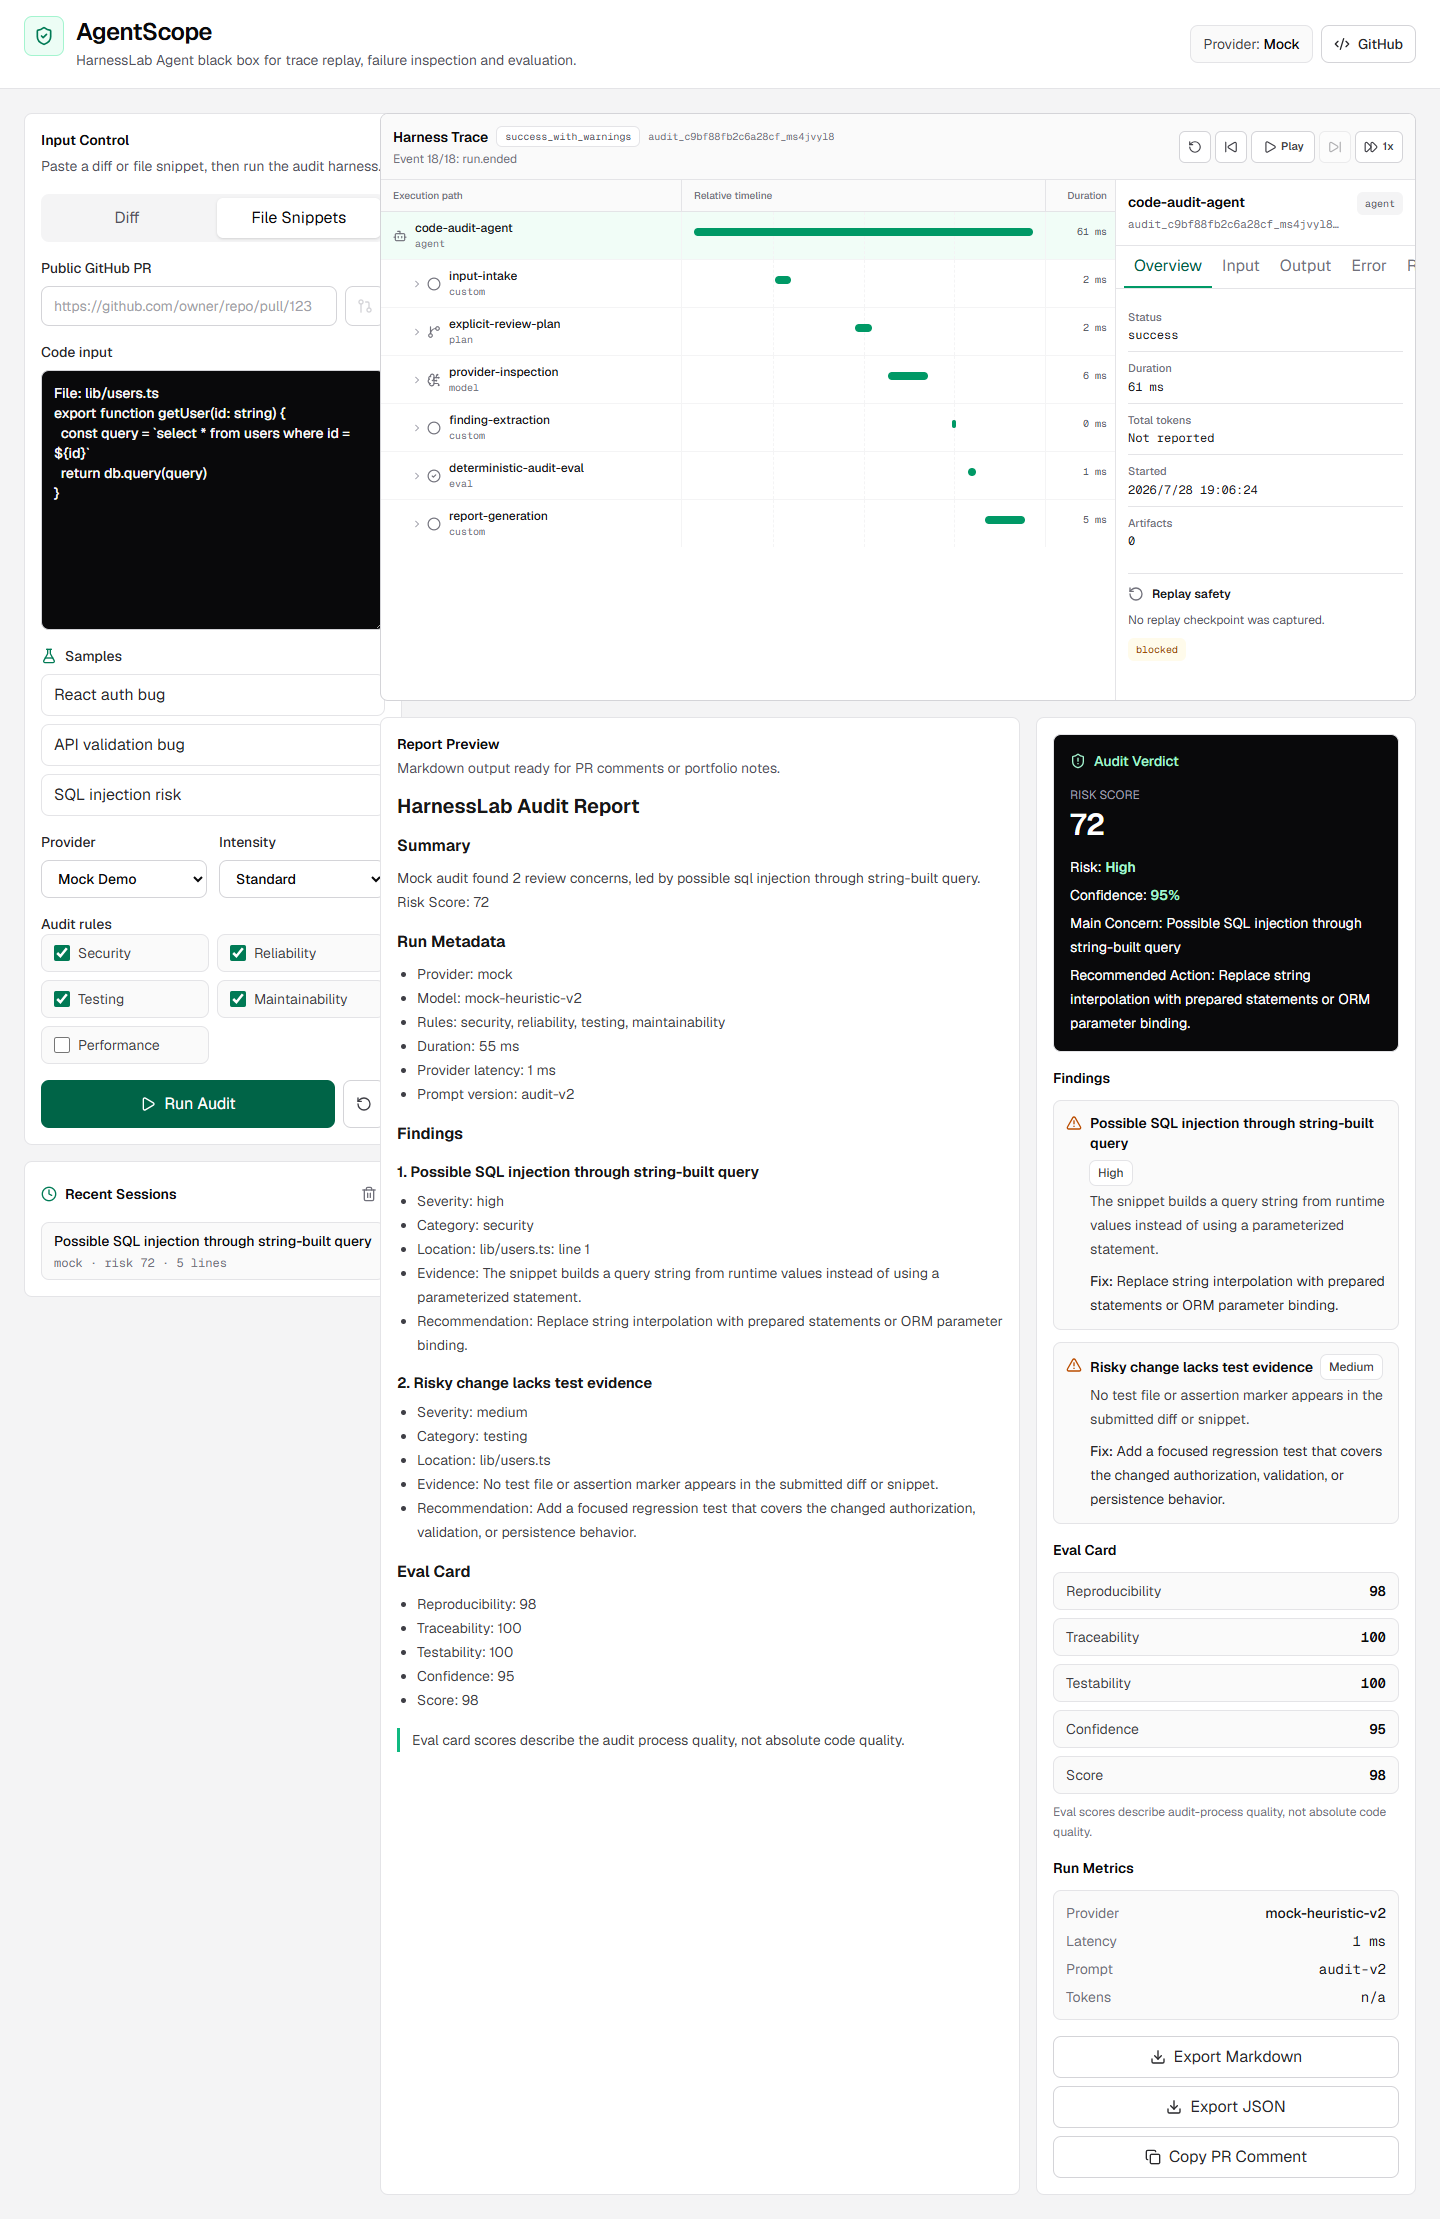
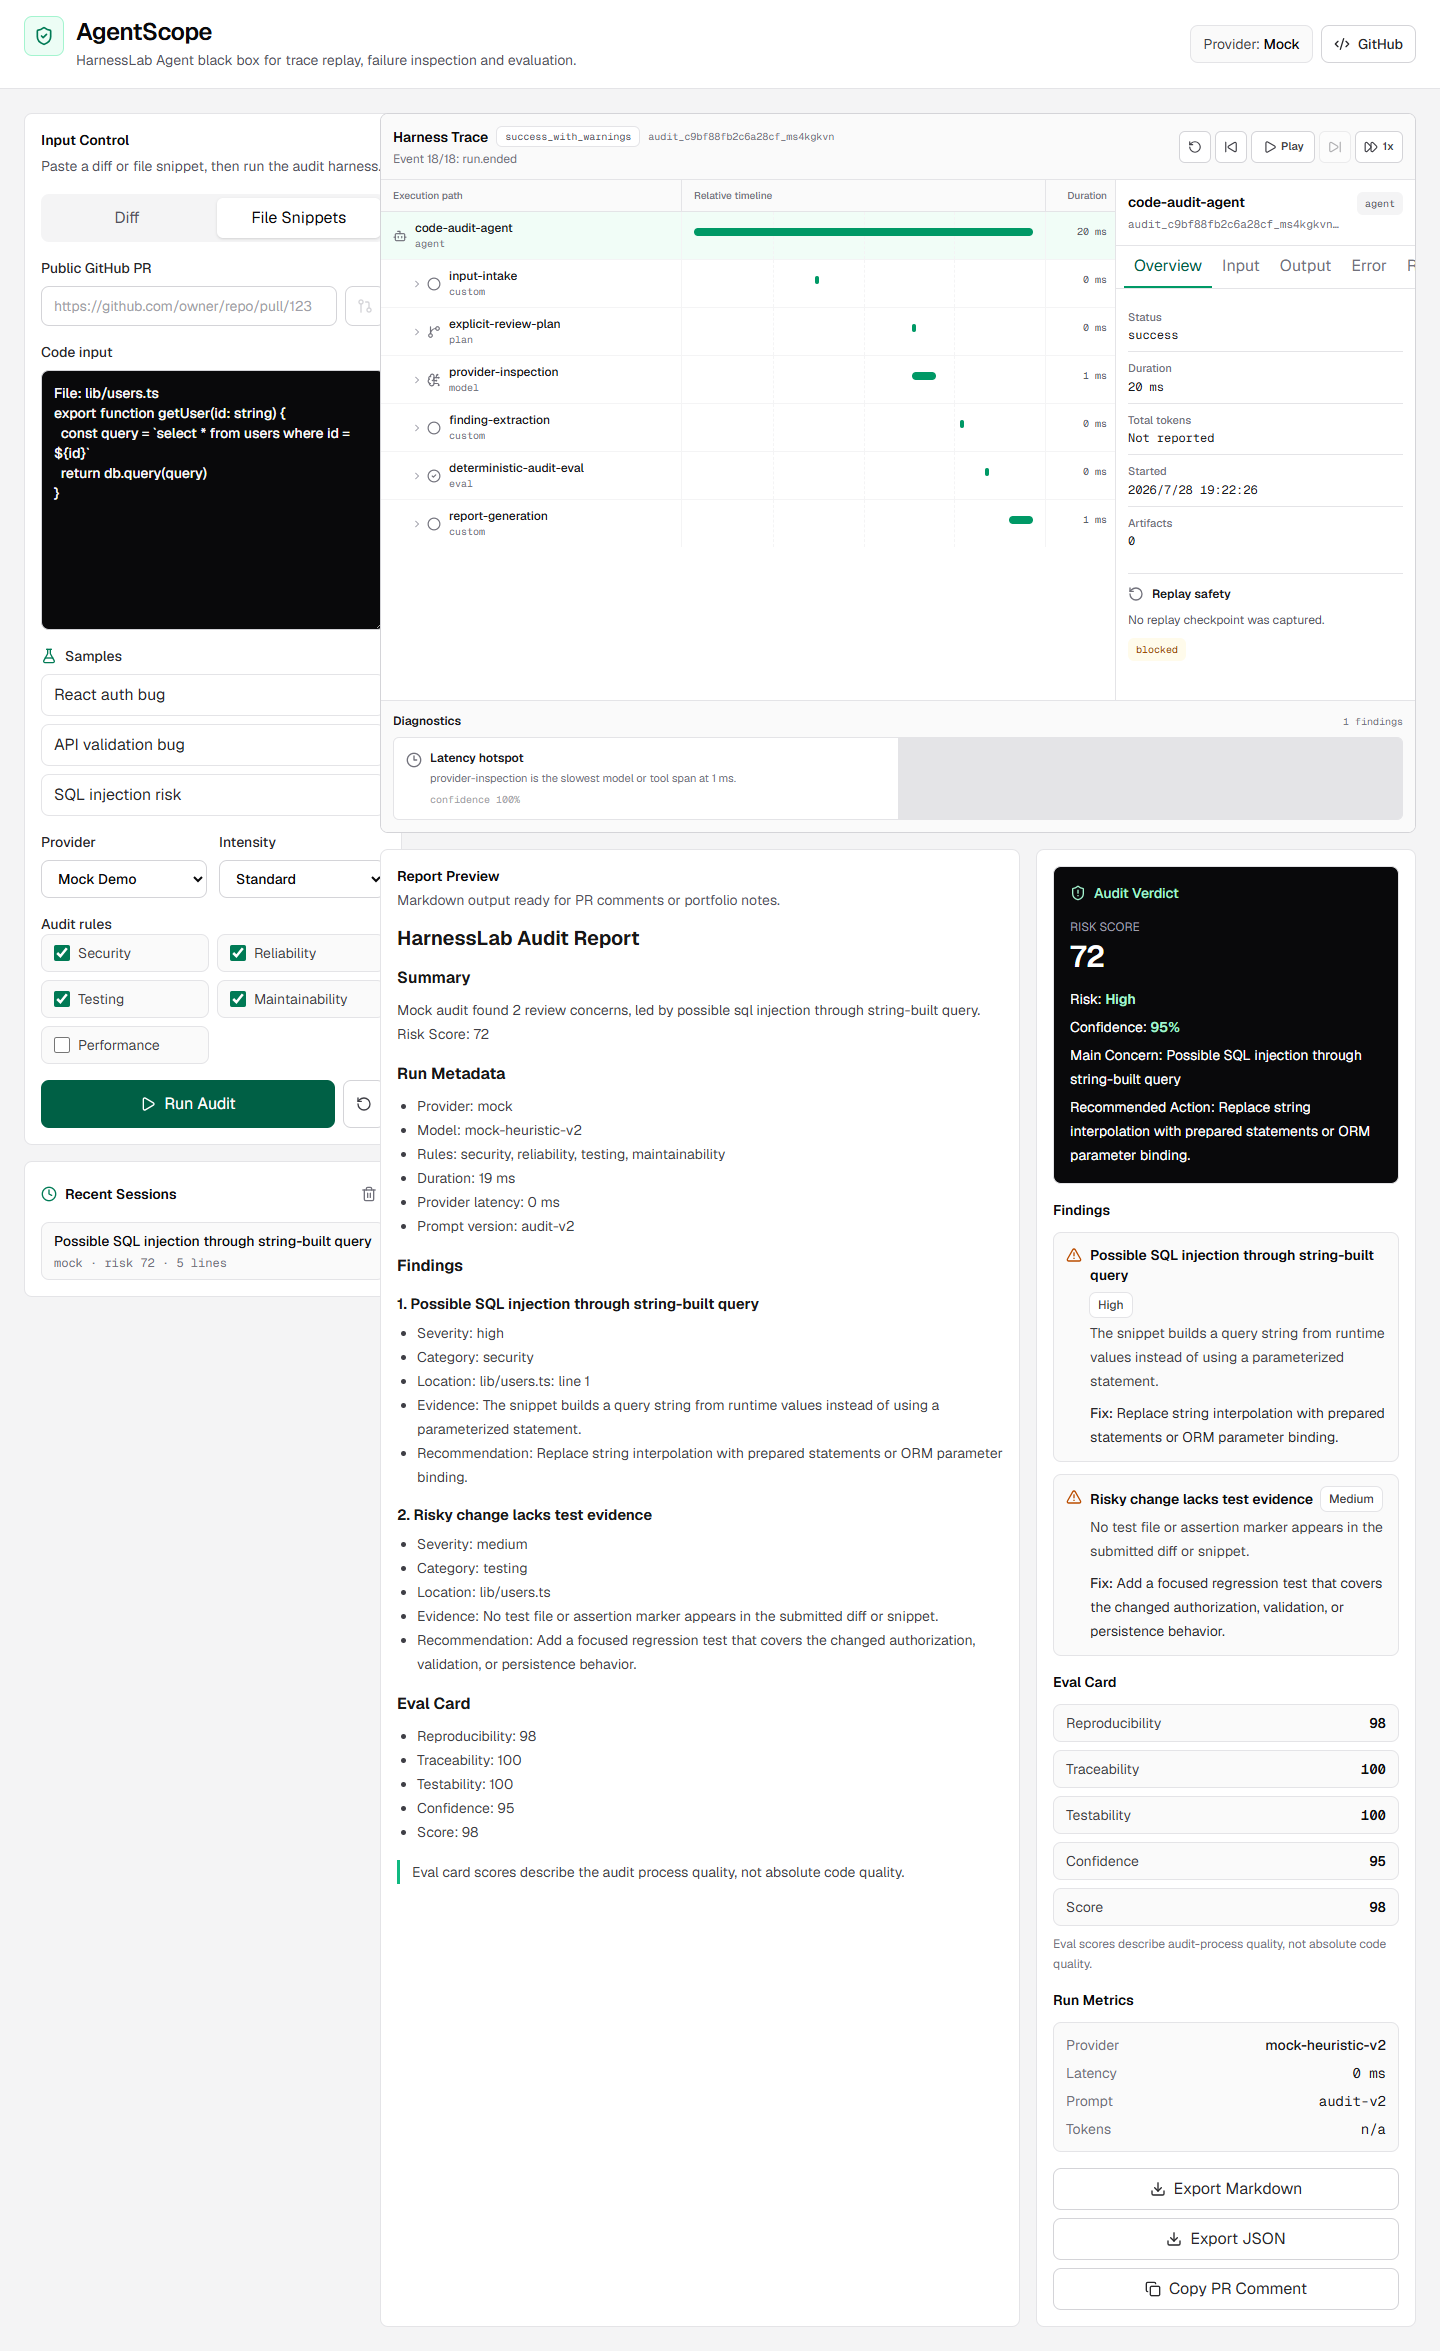
feat: 添加运行错误与重复调用诊断

diff --git a/lib/agentscope/diagnostics/diagnose-run.ts b/lib/agentscope/diagnostics/diagnose-run.ts
@@ -1,0 +1,150 @@
+import type { RunProjection } from "../domain/projection";
+import type { JsonValue } from "../domain/common";
+import type { Span } from "../domain/span";
+import { summarizeTokens } from "../presentation/trace-view";
+
+export type Diagnostic = {
+  id: string;
+  ruleId: string;
+  ruleVersion: 1;
+  severity: "info" | "warning" | "error";
+  category: "error" | "retry" | "loop" | "latency" | "token" | "data_quality";
+  title: string;
+  explanation: string;
+  evidenceSpanIds: string[];
+  confidence: number;
+};
+
+function normalizeJson(value: JsonValue): JsonValue {
+  if (Array.isArray(value)) return value.map(normalizeJson);
+  if (value && typeof value === "object") {
+    return Object.fromEntries(
+      Object.entries(value)
+        .filter(([key]) => !["requestId", "timestamp", "traceId"].includes(key))
+        .sort(([left], [right]) => left.localeCompare(right))
+        .map(([key, child]) => [key, normalizeJson(child)]),
+    );
+  }
+  return value;
+}
+
+function toolSignature(span: Span) {
+  const input = span.inputRef?.kind === "inline"
+    ? normalizeJson(span.inputRef.data)
+    : span.inputRef;
+  return JSON.stringify([span.name, input]);
+}
+
+function duration(span: Span) {
+  return span.metrics?.durationMs ?? (
+    span.endedAt ? Math.max(0, Date.parse(span.endedAt) - Date.parse(span.startedAt)) : 0
+  );
+}
+
+export function diagnoseRun(projection: RunProjection): Diagnostic[] {
+  const diagnostics: Diagnostic[] = [];
+  const orderedSpans = [...projection.spans].sort((left, right) => left.sequence - right.sequence);
+  const errors = orderedSpans
+    .filter((span) => span.status === "error")
+    .sort((left, right) => {
+      const leftEndedAt = left.endedAt ? Date.parse(left.endedAt) : Number.MAX_SAFE_INTEGER;
+      const rightEndedAt = right.endedAt ? Date.parse(right.endedAt) : Number.MAX_SAFE_INTEGER;
+      return leftEndedAt - rightEndedAt || left.sequence - right.sequence;
+    });
+
+  if (errors.length > 0) {
+    const first = errors[0];
+    diagnostics.push({
+      id: `diag_error_${first.id}`,
+      ruleId: "first-unrecovered-error",
+      ruleVersion: 1,
+      severity: "error",
+      category: "error",
+      title: "Possible failure starting point",
+      explanation: `${first.name} is the earliest captured error. ${first.error?.message ?? "No structured error message was recorded."}`,
+      evidenceSpanIds: errors.map((span) => span.id),
+      confidence: 0.86,
+    });
+  }
+
+  const duplicateGroups = new Map<string, Span[]>();
+  for (const span of orderedSpans) {
+    if (span.kind !== "tool") continue;
+    const signature = toolSignature(span);
+    const group = duplicateGroups.get(signature) ?? [];
+    group.push(span);
+    duplicateGroups.set(signature, group);
+  }
+
+  for (const group of duplicateGroups.values()) {
+    if (group.length < 2) continue;
+    const first = group[0];
+    diagnostics.push({
+      id: `diag_duplicate_${first.id}`,
+      ruleId: "duplicate-tool-call",
+      ruleVersion: 1,
+      severity: group.length >= 3 ? "error" : "warning",
+      category: group.length >= 3 ? "loop" : "retry",
+      title: `${group.length} duplicate tool calls`,
+      explanation: `${first.name} received the same normalized input ${group.length} times. Volatile request metadata is ignored.`,
+      evidenceSpanIds: group.map((span) => span.id),
+      confidence: 0.98,
+    });
+  }
+
+  const timed = orderedSpans.filter(
+    (span) => (span.kind === "model" || span.kind === "tool") && duration(span) > 0,
+  );
+  const slowest = timed.reduce<Span | undefined>(
+    (current, span) => !current || duration(span) > duration(current) ? span : current,
+    undefined,
+  );
+  if (slowest) {
+    diagnostics.push({
+      id: `diag_latency_${slowest.id}`,
+      ruleId: "latency-hotspot",
+      ruleVersion: 1,
+      severity: "info",
+      category: "latency",
+      title: "Latency hotspot",
+      explanation: `${slowest.name} is the slowest model or tool span at ${duration(slowest)} ms.`,
+      evidenceSpanIds: [slowest.id],
+      confidence: 1,
+    });
+  }
+
+  const tokenSpans = orderedSpans.filter((span) => span.kind === "model" && summarizeTokens(span) > 0);
+  const tokenHotspot = tokenSpans.reduce<Span | undefined>(
+    (current, span) => !current || summarizeTokens(span) > summarizeTokens(current) ? span : current,
+    undefined,
+  );
+  if (tokenHotspot) {
+    diagnostics.push({
+      id: `diag_token_${tokenHotspot.id}`,
+      ruleId: "token-hotspot",
+      ruleVersion: 1,
+      severity: "info",
+      category: "token",
+      title: "Token hotspot",
+      explanation: `${tokenHotspot.name} used ${summarizeTokens(tokenHotspot)} reported tokens.`,
+      evidenceSpanIds: [tokenHotspot.id],
+      confidence: 1,
+    });
+  }
+
+  for (const [index, issue] of projection.dataQualityIssues.entries()) {
+    diagnostics.push({
+      id: `diag_quality_${index}_${issue.spanId ?? "run"}`,
+      ruleId: issue.code,
+      ruleVersion: 1,
+      severity: "warning",
+      category: "data_quality",
+      title: "Trace data quality issue",
+      explanation: issue.message,
+      evidenceSpanIds: issue.spanId ? [issue.spanId] : [],
+      confidence: 1,
+    });
+  }
+
+  return diagnostics;
+}

diff --git a/components/agentscope/diagnostics-panel.tsx b/components/agentscope/diagnostics-panel.tsx
@@ -1,0 +1,79 @@
+import {
+  AlertCircle,
+  Clock3,
+  Coins,
+  CopyCheck,
+  FileWarning,
+  RotateCw,
+} from "lucide-react";
+import type { Diagnostic } from "@/lib/agentscope/diagnostics/diagnose-run";
+
+type DiagnosticsPanelProps = {
+  diagnostics: Diagnostic[];
+  onSelectSpan: (spanId: string) => void;
+};
+
+const categoryIcon = {
+  error: AlertCircle,
+  retry: RotateCw,
+  loop: CopyCheck,
+  latency: Clock3,
+  token: Coins,
+  data_quality: FileWarning,
+};
+
+export function DiagnosticsPanel({ diagnostics, onSelectSpan }: DiagnosticsPanelProps) {
+  if (diagnostics.length === 0) {
+    return (
+      <div className="border-t border-zinc-200 bg-zinc-50 px-3 py-2 text-xs text-zinc-500">
+        Diagnostics: no deterministic issue detected.
+      </div>
+    );
+  }
+
+  return (
+    <div className="border-t border-zinc-200 bg-zinc-50 p-3">
+      <div className="mb-2 flex items-center justify-between gap-3">
+        <h3 className="text-xs font-semibold text-zinc-900">Diagnostics</h3>
+        <span className="font-mono text-[10px] text-zinc-500">
+          {diagnostics.length} findings
+        </span>
+      </div>
+      <div className="grid gap-px overflow-hidden rounded-md border border-zinc-200 bg-zinc-200 lg:grid-cols-2 2xl:grid-cols-4">
+        {diagnostics.map((diagnostic) => {
+          const Icon = categoryIcon[diagnostic.category];
+          const spanId = diagnostic.evidenceSpanIds[0];
+
+          return (
+            <button
+              key={diagnostic.id}
+              type="button"
+              disabled={!spanId}
+              onClick={() => spanId && onSelectSpan(spanId)}
+              className="flex min-w-0 gap-2 bg-white p-3 text-left hover:bg-zinc-50 disabled:cursor-default"
+            >
+              <Icon className={`mt-0.5 h-4 w-4 shrink-0 ${
+                diagnostic.severity === "error"
+                  ? "text-red-600"
+                  : diagnostic.severity === "warning"
+                    ? "text-amber-600"
+                    : "text-zinc-500"
+              }`} aria-hidden="true" />
+              <span className="min-w-0">
+                <span className="block text-xs font-semibold text-zinc-900">
+                  {diagnostic.title}
+                </span>
+                <span className="mt-1 line-clamp-2 block text-[11px] leading-4 text-zinc-500">
+                  {diagnostic.explanation}
+                </span>
+                <span className="mt-1.5 block font-mono text-[10px] text-zinc-400">
+                  confidence {Math.round(diagnostic.confidence * 100)}%
+                </span>
+              </span>
+            </button>
+          );
+        })}
+      </div>
+    </div>
+  );
+}

diff --git a/components/agentscope/trace-explorer.tsx b/components/agentscope/trace-explorer.tsx
@@ -29,6 +29,8 @@ import {
   getTraceBounds,
 } from "@/lib/agentscope/presentation/trace-view";
 import { SpanInspector } from "./span-inspector";
+import { DiagnosticsPanel } from "./diagnostics-panel";
+import { diagnoseRun } from "@/lib/agentscope/diagnostics/diagnose-run";
 
 type TraceExplorerProps = {
   events: TraceEvent[];
@@ -101,6 +103,10 @@ export function TraceExplorer({ events, projection, isRunning }: TraceExplorerPr
   );
   const selectedSpan = visibleProjection?.spans.find((span) => span.id === selectedSpanId)
     ?? visibleProjection?.spans[0];
+  const diagnostics = useMemo(
+    () => visibleProjection ? diagnoseRun(visibleProjection) : [],
+    [visibleProjection],
+  );
 
   const currentEvent = displayCursor > 0 ? events[displayCursor - 1] : undefined;
   const run = visibleProjection?.run ?? projection?.run;
@@ -203,8 +209,9 @@ export function TraceExplorer({ events, projection, isRunning }: TraceExplorerPr
           </div>
         </div>
       ) : (
-        <div className="grid min-h-[520px] xl:grid-cols-[minmax(510px,1fr)_300px]">
-          <div className="min-w-0 overflow-x-auto">
+        <>
+          <div className="grid min-h-[520px] xl:grid-cols-[minmax(510px,1fr)_300px]">
+            <div className="min-w-0 overflow-x-auto">
             <div className="min-w-[720px]">
               <div className="grid grid-cols-[300px_minmax(340px,1fr)_70px] border-b border-zinc-200 bg-zinc-50 text-[10px] font-medium text-zinc-500">
                 <div className="px-3 py-2">Execution path</div>
@@ -256,14 +263,16 @@ export function TraceExplorer({ events, projection, isRunning }: TraceExplorerPr
                 })}
               </div>
             </div>
-          </div>
+            </div>
 
-          <SpanInspector
-            span={selectedSpan}
-            artifacts={visibleProjection?.artifacts ?? []}
-            checkpoints={visibleProjection?.checkpoints ?? []}
-          />
-        </div>
+            <SpanInspector
+              span={selectedSpan}
+              artifacts={visibleProjection?.artifacts ?? []}
+              checkpoints={visibleProjection?.checkpoints ?? []}
+            />
+          </div>
+          <DiagnosticsPanel diagnostics={diagnostics} onSelectSpan={setSelectedSpanId} />
+        </>
       )}
     </section>
   );

diff --git a/tests/agentscope-diagnostics.test.ts b/tests/agentscope-diagnostics.test.ts
@@ -1,0 +1,36 @@
+import { describe, expect, it } from "vitest";
+import failedFixture from "./fixtures/traces/failed-repeated-tool.json";
+import successfulFixture from "./fixtures/traces/successful-code-audit.json";
+import { projectTraceEvents } from "../lib/agentscope/domain";
+import { diagnoseRun } from "../lib/agentscope/diagnostics/diagnose-run";
+
+describe("AgentScope deterministic diagnostics", () => {
+  it("identifies the earliest error and normalized duplicate tool calls", () => {
+    const diagnostics = diagnoseRun(projectTraceEvents(failedFixture.events));
+    const error = diagnostics.find((item) => item.ruleId === "first-unrecovered-error");
+    const duplicate = diagnostics.find((item) => item.ruleId === "duplicate-tool-call");
+
+    expect(error?.evidenceSpanIds[0]).toBe("span_failure_tool_1");
+    expect(error?.title).toBe("Possible failure starting point");
+    expect(duplicate).toMatchObject({
+      severity: "error",
+      category: "loop",
+      confidence: 0.98,
+    });
+    expect(duplicate?.evidenceSpanIds).toEqual([
+      "span_failure_tool_1",
+      "span_failure_tool_2",
+      "span_failure_tool_3",
+    ]);
+  });
+
+  it("reports latency and token hotspots only from measured data", () => {
+    const diagnostics = diagnoseRun(projectTraceEvents(successfulFixture.events));
+
+    expect(diagnostics.find((item) => item.ruleId === "latency-hotspot")?.evidenceSpanIds)
+      .toEqual(["span_success_model"]);
+    expect(diagnostics.find((item) => item.ruleId === "token-hotspot")?.explanation)
+      .toContain("150 reported tokens");
+    expect(diagnostics.some((item) => item.ruleId === "duplicate-tool-call")).toBe(false);
+  });
+});

diff --git a/e2e/audit-flow.spec.ts b/e2e/audit-flow.spec.ts
@@ -24,6 +24,8 @@ test("sample audit flow shows trace, findings, and exports", async ({ page }) =>
   await expect(page.getByText("No structured trace yet")).toBeVisible();
   await page.getByRole("button", { name: "Next event" }).click();
   await expect(page.getByText(/Event 1\/\d+: run.created/)).toBeVisible();
+  await page.getByRole("button", { name: "Play visual replay" }).click();
+  await expect(page.getByText("Diagnostics", { exact: true })).toBeVisible({ timeout: 15_000 });
   await expect(page.getByText("Risk Score", { exact: true })).toBeVisible();
   const markdownDownload = page.waitForEvent("download");
   await page.getByRole("button", { name: "Export Markdown" }).click();
